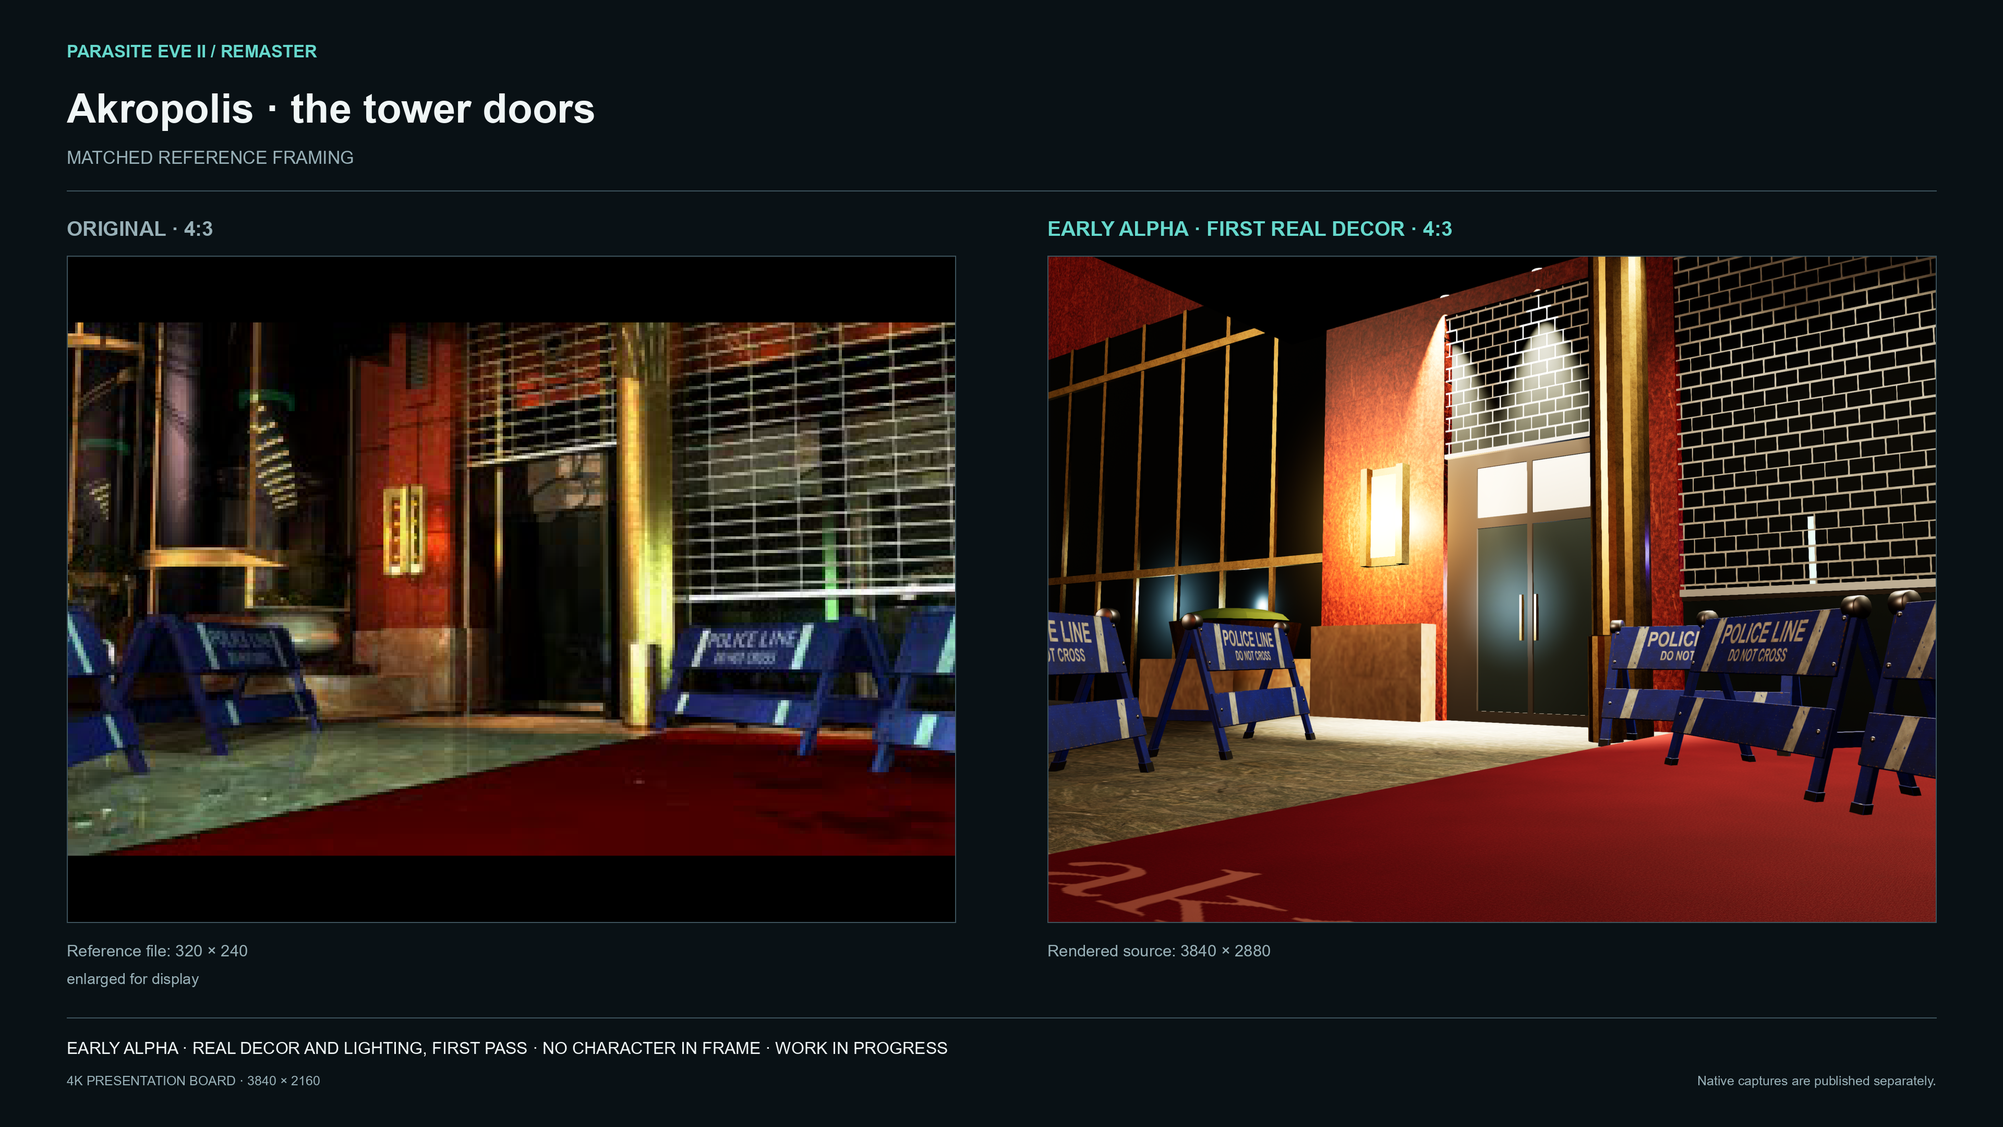
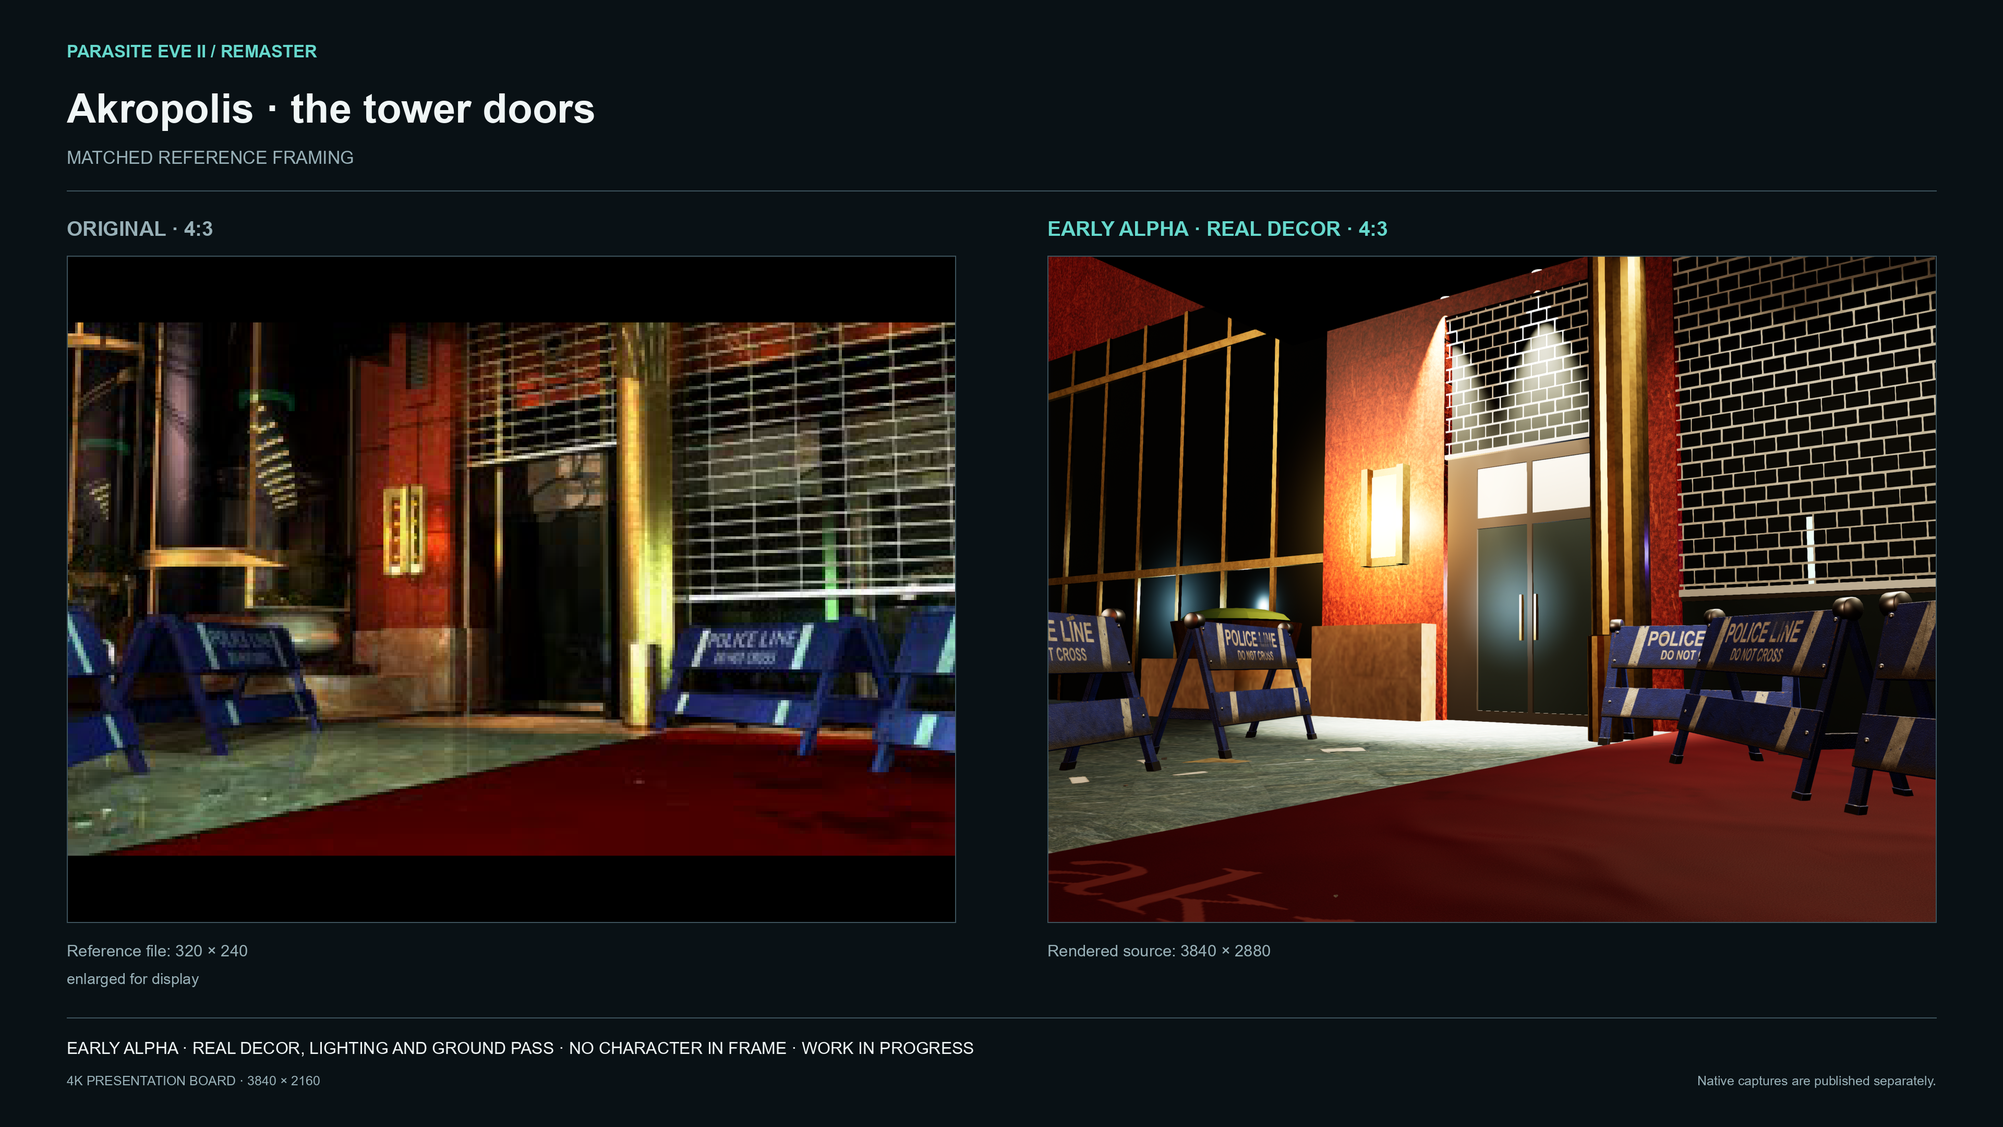
Akropolis plaza: the ground pass - photographed asphalt with tar-sealed cracks and repairs, the soaked ground round the fire engine's hoses, boot prints, a new comparison of the drive's markings, captures and progress note updated

Changed region(s): [[0.5, 0.2171, 0.9688, 0.8375], [0.2188, 0.8995, 0.4688, 0.9306], [0.5938, 0.1861, 0.7188, 0.2171]]

diff --git a/README.fr.md b/README.fr.md
@@ -60,19 +60,24 @@ Le premier lieu jouable d’Akropolis est le parvis au pied de la tour : la nuit
 - **Modélisé pour le projet.** Le camion de pompiers, l’ambulance aux portes arrière ouvertes, les barrières POLICE LINE, le brancard, les cônes et les fusées de détresse. Les surfaces et les plantes viennent de matières photographiées.
 - **Éclairé comme l’original.** Chaque lumière est dans un luminaire que montre l’original : les lampadaires, les gyrophares du camion, l’ambulance, les spots de l’auvent, les projecteurs du massif. Le niveau et la couleur de la lumière sont mesurés face à l’original, zone par zone, plutôt que réglés à l’œil.
 
-Alpha précoce : les personnages, les tuyaux au sol et les gyrophares animés restent à venir.
+- **Le sol, de près.** Le bitume est maintenant une vraie chaussée photographiée, usée, jamais identique d’un endroit à l’autre. Il porte ce que porte une vraie allée de ville : des fissures colmatées au goudron, des réparations découpées à la scie autour des plaques d’égout, une peinture usée, des gouttes d’huile au milieu des voies. Autour des tuyaux du camion, le sol est trempé, l’eau stagne dans ses vrais creux et les bottes mouillées des pompiers laissent leurs empreintes jusqu’aux portes. Le tapis rouge fait des plis, et sa couleur comme celle du marbre sont maintenant mesurées face à l’original.
 
-[![Allée du parvis d’Akropolis — original (gauche) et premier décor réel (droite)](media/comparisons/akropolis-plaza-drive-4x3.png)](media/alpha/akropolis-plaza-drive-4x3.png)
-*L’allée et le massif rond · premier décor réel · [capture native 3840 × 2880](media/alpha/akropolis-plaza-drive-4x3.png)*
+Alpha précoce : les personnages et les gyrophares animés restent à venir.
 
-[![Camion de pompiers d’Akropolis — original (gauche) et premier décor réel (droite)](media/comparisons/akropolis-plaza-fire-engine-4x3.png)](media/alpha/akropolis-plaza-fire-engine-4x3.png)
-*Le camion de pompiers devant la tour · premier décor réel · [capture native 3840 × 2880](media/alpha/akropolis-plaza-fire-engine-4x3.png)*
+[![Allée du parvis d’Akropolis — original (gauche) et décor réel (droite)](media/comparisons/akropolis-plaza-drive-4x3.png)](media/alpha/akropolis-plaza-drive-4x3.png)
+*L’allée et le massif rond · décor réel · [capture native 3840 × 2880](media/alpha/akropolis-plaza-drive-4x3.png)*
 
-[![Parvis d’Akropolis — original (gauche) et premier décor réel (droite)](media/comparisons/akropolis-plaza-forecourt-4x3.png)](media/alpha/akropolis-plaza-forecourt-4x3.png)
-*Le parvis et le tapis rouge · premier décor réel · [capture native 3840 × 2880](media/alpha/akropolis-plaza-forecourt-4x3.png)*
+[![Marquages de l’allée d’Akropolis — original (gauche) et décor réel avec la passe du sol (droite)](media/comparisons/akropolis-plaza-markings-4x3.png)](media/alpha/akropolis-plaza-markings-4x3.png)
+*Les marquages de l’allée et les barrières · la passe du sol · [capture native 3840 × 2880](media/alpha/akropolis-plaza-markings-4x3.png)*
 
-[![Portes de la tour d’Akropolis — original (gauche) et premier décor réel (droite)](media/comparisons/akropolis-plaza-doors-4x3.png)](media/alpha/akropolis-plaza-doors-4x3.png)
-*Les portes de la tour · premier décor réel · [capture native 3840 × 2880](media/alpha/akropolis-plaza-doors-4x3.png)*
+[![Camion de pompiers d’Akropolis — original (gauche) et décor réel (droite)](media/comparisons/akropolis-plaza-fire-engine-4x3.png)](media/alpha/akropolis-plaza-fire-engine-4x3.png)
+*Le camion de pompiers devant la tour, le sol trempé autour des tuyaux · décor réel · [capture native 3840 × 2880](media/alpha/akropolis-plaza-fire-engine-4x3.png)*
+
+[![Parvis d’Akropolis — original (gauche) et décor réel (droite)](media/comparisons/akropolis-plaza-forecourt-4x3.png)](media/alpha/akropolis-plaza-forecourt-4x3.png)
+*Le parvis et le tapis rouge · décor réel · [capture native 3840 × 2880](media/alpha/akropolis-plaza-forecourt-4x3.png)*
+
+[![Portes de la tour d’Akropolis — original (gauche) et décor réel (droite)](media/comparisons/akropolis-plaza-doors-4x3.png)](media/alpha/akropolis-plaza-doors-4x3.png)
+*Les portes de la tour · décor réel · [capture native 3840 × 2880](media/alpha/akropolis-plaza-doors-4x3.png)*
 
 [Détails](docs/PROGRESS.fr.md#akropolis-parvis-de-la-tour--point-du-9-novembre-2026)
 

diff --git a/README.md b/README.md
@@ -60,19 +60,24 @@ The first playable place of Akropolis is the plaza at the foot of the tower: the
 - **Modelled for the project.** The fire engine, the ambulance with its open rear doors, the POLICE LINE barricades, the gurney, the cones and the road flares. Surfaces and plants come from photographed materials.
 - **Lit like the original.** Every light sits in a fixture the original shows: the street lamps, the fire engine's beacons, the ambulance, the canopy lights, the planter's lights. The light level and colour are measured against the original, zone by zone, rather than set by eye.
 
-Early alpha: the characters, the hoses on the ground and the flashing beacons are still to come.
+- **The ground, up close.** The asphalt is now photographed road surface, worn and never the same from one spot to the next. It carries what a city drive really has: cracks sealed with tar, saw-cut repairs round the manholes, worn paint, oil drips down the lanes. Round the fire engine's hoses the ground is soaked, with water standing in its real dips and the firefighters' wet boot prints leading to the doors. The red carpet is rumpled, and its colour and the marble's are now measured against the original.
 
-[![Akropolis plaza drive — original (left) and first real decor (right)](media/comparisons/akropolis-plaza-drive-4x3.png)](media/alpha/akropolis-plaza-drive-4x3.png)
-*The drive and the round planter · first real decor · [native capture 3840 × 2880](media/alpha/akropolis-plaza-drive-4x3.png)*
+Early alpha: the characters and the flashing beacons are still to come.
 
-[![Akropolis fire engine — original (left) and first real decor (right)](media/comparisons/akropolis-plaza-fire-engine-4x3.png)](media/alpha/akropolis-plaza-fire-engine-4x3.png)
-*The fire engine at the tower · first real decor · [native capture 3840 × 2880](media/alpha/akropolis-plaza-fire-engine-4x3.png)*
+[![Akropolis plaza drive — original (left) and real decor (right)](media/comparisons/akropolis-plaza-drive-4x3.png)](media/alpha/akropolis-plaza-drive-4x3.png)
+*The drive and the round planter · real decor · [native capture 3840 × 2880](media/alpha/akropolis-plaza-drive-4x3.png)*
 
-[![Akropolis forecourt — original (left) and first real decor (right)](media/comparisons/akropolis-plaza-forecourt-4x3.png)](media/alpha/akropolis-plaza-forecourt-4x3.png)
-*The forecourt and the red carpet · first real decor · [native capture 3840 × 2880](media/alpha/akropolis-plaza-forecourt-4x3.png)*
+[![Akropolis drive markings — original (left) and real decor with the ground pass (right)](media/comparisons/akropolis-plaza-markings-4x3.png)](media/alpha/akropolis-plaza-markings-4x3.png)
+*The drive's markings and the barricades · the ground pass · [native capture 3840 × 2880](media/alpha/akropolis-plaza-markings-4x3.png)*
 
-[![Akropolis tower doors — original (left) and first real decor (right)](media/comparisons/akropolis-plaza-doors-4x3.png)](media/alpha/akropolis-plaza-doors-4x3.png)
-*The tower doors · first real decor · [native capture 3840 × 2880](media/alpha/akropolis-plaza-doors-4x3.png)*
+[![Akropolis fire engine — original (left) and real decor (right)](media/comparisons/akropolis-plaza-fire-engine-4x3.png)](media/alpha/akropolis-plaza-fire-engine-4x3.png)
+*The fire engine at the tower, the soaked ground round its hoses · real decor · [native capture 3840 × 2880](media/alpha/akropolis-plaza-fire-engine-4x3.png)*
+
+[![Akropolis forecourt — original (left) and real decor (right)](media/comparisons/akropolis-plaza-forecourt-4x3.png)](media/alpha/akropolis-plaza-forecourt-4x3.png)
+*The forecourt and the red carpet · real decor · [native capture 3840 × 2880](media/alpha/akropolis-plaza-forecourt-4x3.png)*
+
+[![Akropolis tower doors — original (left) and real decor (right)](media/comparisons/akropolis-plaza-doors-4x3.png)](media/alpha/akropolis-plaza-doors-4x3.png)
+*The tower doors · real decor · [native capture 3840 × 2880](media/alpha/akropolis-plaza-doors-4x3.png)*
 
 [Details](docs/PROGRESS.md#akropolis-tower-plaza--update-of-9-november-2026)
 

diff --git a/docs/GALLERY.fr.md b/docs/GALLERY.fr.md
@@ -73,25 +73,31 @@ Planche 3840 × 2160 · [capture native 3840 × 2880](../media/alpha/mist-hall-n
 
 [![Comparaison : Akropolis · l’allée du parvis et le massif rond](../media/comparisons/akropolis-plaza-drive-4x3.png)](../media/alpha/akropolis-plaza-drive-4x3.png)
 
-Planche 3840 × 2160 · [capture native 3840 × 2880](../media/alpha/akropolis-plaza-drive-4x3.png) · premier décor réel et première passe de lumière, aucun personnage.
+Planche 3840 × 2160 · [capture native 3840 × 2880](../media/alpha/akropolis-plaza-drive-4x3.png) · décor réel, lumière et passe du sol, aucun personnage.
+
+### Akropolis · les marquages de l’allée et les barrières
+
+[![Comparaison : Akropolis · les marquages de l’allée et les barrières](../media/comparisons/akropolis-plaza-markings-4x3.png)](../media/alpha/akropolis-plaza-markings-4x3.png)
+
+Planche 3840 × 2160 · [capture native 3840 × 2880](../media/alpha/akropolis-plaza-markings-4x3.png) · décor réel, lumière et passe du sol, aucun personnage.
 
 ### Akropolis · le camion de pompiers devant la tour
 
 [![Comparaison : Akropolis · le camion de pompiers devant la tour](../media/comparisons/akropolis-plaza-fire-engine-4x3.png)](../media/alpha/akropolis-plaza-fire-engine-4x3.png)
 
-Planche 3840 × 2160 · [capture native 3840 × 2880](../media/alpha/akropolis-plaza-fire-engine-4x3.png) · premier décor réel et première passe de lumière, aucun personnage.
+Planche 3840 × 2160 · [capture native 3840 × 2880](../media/alpha/akropolis-plaza-fire-engine-4x3.png) · décor réel, lumière et passe du sol, aucun personnage.
 
 ### Akropolis · le parvis et le tapis rouge
 
 [![Comparaison : Akropolis · le parvis et le tapis rouge](../media/comparisons/akropolis-plaza-forecourt-4x3.png)](../media/alpha/akropolis-plaza-forecourt-4x3.png)
 
-Planche 3840 × 2160 · [capture native 3840 × 2880](../media/alpha/akropolis-plaza-forecourt-4x3.png) · premier décor réel et première passe de lumière, aucun personnage.
+Planche 3840 × 2160 · [capture native 3840 × 2880](../media/alpha/akropolis-plaza-forecourt-4x3.png) · décor réel, lumière et passe du sol, aucun personnage.
 
 ### Akropolis · les portes de la tour
 
 [![Comparaison : Akropolis · les portes de la tour](../media/comparisons/akropolis-plaza-doors-4x3.png)](../media/alpha/akropolis-plaza-doors-4x3.png)
 
-Planche 3840 × 2160 · [capture native 3840 × 2880](../media/alpha/akropolis-plaza-doors-4x3.png) · premier décor réel et première passe de lumière, aucun personnage.
+Planche 3840 × 2160 · [capture native 3840 × 2880](../media/alpha/akropolis-plaza-doors-4x3.png) · décor réel, lumière et passe du sol, aucun personnage.
 
 ### Akropolis · colonnade du belvédère
 

diff --git a/docs/GALLERY.md b/docs/GALLERY.md
@@ -73,25 +73,31 @@ Board 3840 × 2160 · [native capture 3840 × 2880](../media/alpha/mist-hall-nov
 
 [![Akropolis · the plaza drive and the round planter comparison](../media/comparisons/akropolis-plaza-drive-4x3.png)](../media/alpha/akropolis-plaza-drive-4x3.png)
 
-Board 3840 × 2160 · [native capture 3840 × 2880](../media/alpha/akropolis-plaza-drive-4x3.png) · first real decor and lighting pass, no character in frame.
+Board 3840 × 2160 · [native capture 3840 × 2880](../media/alpha/akropolis-plaza-drive-4x3.png) · real decor, lighting and ground pass, no character in frame.
+
+### Akropolis · the drive’s markings and the barricades
+
+[![Akropolis · the drive’s markings and the barricades comparison](../media/comparisons/akropolis-plaza-markings-4x3.png)](../media/alpha/akropolis-plaza-markings-4x3.png)
+
+Board 3840 × 2160 · [native capture 3840 × 2880](../media/alpha/akropolis-plaza-markings-4x3.png) · real decor, lighting and ground pass, no character in frame.
 
 ### Akropolis · the fire engine at the tower
 
 [![Akropolis · the fire engine at the tower comparison](../media/comparisons/akropolis-plaza-fire-engine-4x3.png)](../media/alpha/akropolis-plaza-fire-engine-4x3.png)
 
-Board 3840 × 2160 · [native capture 3840 × 2880](../media/alpha/akropolis-plaza-fire-engine-4x3.png) · first real decor and lighting pass, no character in frame.
+Board 3840 × 2160 · [native capture 3840 × 2880](../media/alpha/akropolis-plaza-fire-engine-4x3.png) · real decor, lighting and ground pass, no character in frame.
 
 ### Akropolis · the forecourt and the red carpet
 
 [![Akropolis · the forecourt and the red carpet comparison](../media/comparisons/akropolis-plaza-forecourt-4x3.png)](../media/alpha/akropolis-plaza-forecourt-4x3.png)
 
-Board 3840 × 2160 · [native capture 3840 × 2880](../media/alpha/akropolis-plaza-forecourt-4x3.png) · first real decor and lighting pass, no character in frame.
+Board 3840 × 2160 · [native capture 3840 × 2880](../media/alpha/akropolis-plaza-forecourt-4x3.png) · real decor, lighting and ground pass, no character in frame.
 
 ### Akropolis · the tower doors
 
 [![Akropolis · the tower doors comparison](../media/comparisons/akropolis-plaza-doors-4x3.png)](../media/alpha/akropolis-plaza-doors-4x3.png)
 
-Board 3840 × 2160 · [native capture 3840 × 2880](../media/alpha/akropolis-plaza-doors-4x3.png) · first real decor and lighting pass, no character in frame.
+Board 3840 × 2160 · [native capture 3840 × 2880](../media/alpha/akropolis-plaza-doors-4x3.png) · real decor, lighting and ground pass, no character in frame.
 
 ### Akropolis · observatory colonnade
 

diff --git a/docs/PROGRESS.fr.md b/docs/PROGRESS.fr.md
@@ -37,7 +37,9 @@ Le parvis au pied de la tour d’Akropolis est le premier lieu d’Akropolis que
 
 **La lumière.** Dans l’original, les lumières de ce lieu n’éclairent que les personnages, posés sur une image pré-calculée. Ici, la scène est éclairée par les luminaires que montre l’original : les deux lampadaires, les gyrophares et projecteurs du camion, l’ambulance, les spots de l’auvent et les projecteurs du massif. Chaque zone du sol est comparée à l’original au même cadrage : le niveau d’ensemble lui correspond maintenant, chaque zone reste à moins d’un facteur deux, avec la même couleur chaude.
 
-**À venir.** Les personnages, les tuyaux au sol, les gyrophares animés et un calage plus précis du camion.
+**Le sol (soir du 9 novembre).** Le sol était la partie la moins convaincante de la scène : il a eu sa propre passe. Le bitume est maintenant fait de trois chaussées photographiées, mêlées sur toute l’allée pour que deux endroits ne se ressemblent jamais, à la même luminosité qu’avant (elle était déjà calée sur l’original). Il porte l’usure d’une allée de ville : des fissures colmatées au goudron coulé, usé là où passent les roues, du faïençage dans les traces de roues, des réparations carrées découpées à la scie autour des plaques d’égout, deux tranchées en travers de l’allée, des rebouchages à froid, des gouttes d’huile au milieu des voies, du sable le long des bordures, une peinture écaillée le long des fissures. Les tuyaux du camion traversent maintenant l’allée, et le sol autour d’eux est trempé, comme dans l’original : l’eau stagne dans les vrais creux du sol, et les bottes mouillées des pompiers laissent des empreintes jusqu’aux portes et jusqu’à l’ambulance, qui s’effacent en séchant. Le tapis rouge fait des plis et porte les traces de passage. Sa couleur et celle du marbre sont mesurées face à l’original au même cadrage : le tapis est d’un rouge plus profond, le marbre d’un vert-gris plus froid.
+
+**À venir.** Les personnages, les gyrophares animés et un calage plus précis du camion.
 
 ## Porte de la zone d’accès restreint du M.I.S.T. — point du 1er novembre 2026
 

diff --git a/docs/PROGRESS.md b/docs/PROGRESS.md
@@ -37,7 +37,9 @@ The plaza at the foot of the Akropolis tower is the first place of Akropolis you
 
 **Light.** In the original, the lights of this place only light the characters over a pre-rendered picture. Here the scene is lit by the fixtures the original shows: the two street lamps, the fire engine's beacons and work lights, the ambulance, the canopy's downlights and the planter's lights. Each zone of the ground is compared with the original at the same framing: the overall level now matches it, and every zone is within a factor of two, with the same warm colour.
 
-**Still to come.** The characters, the hoses on the ground, flashing beacons, and a closer fit of the fire engine.
+**The ground (evening of 9 November).** The ground was the least convincing part of the scene, so it got a pass of its own. The asphalt is now three photographed road surfaces blended over the whole drive, so no two spots look alike, at the same overall brightness as before (it was already matched to the original). It carries the wear of a city drive: cracks sealed with poured tar, worn thin where the wheels pass, fatigue cracking in the wheel paths, square saw-cut repairs round the manholes, two trenches across the drive, cold-mix patches, oil drips down the lanes, grit along the kerbs, paint chipped along the cracks. The fire engine's hoses now run across the drive, and the ground round them is soaked, as in the original: water stands in the real dips of the ground, and the firefighters' wet boot prints lead to the doors and to the ambulance, fading as they dry. The red carpet is rumpled and trodden. Its colour and the marble's are measured against the original at the same framing: the carpet is a deeper red, the marble a cooler green-grey.
+
+**Still to come.** The characters, flashing beacons, and a closer fit of the fire engine.
 
 ## M.I.S.T. restricted area door — update of 1 November 2026
 

diff --git a/docs/ASSET_CREDITS.md b/docs/ASSET_CREDITS.md
@@ -53,7 +53,9 @@ Models from [Poly Haven](https://polyhaven.com), released under [CC0 1.0](https:
 | Metal Manhole Cover | Quixel Megascans | [Fab listing](https://www.fab.com/listings/f3fc6c71-33c6-4044-9575-c5b0b0863b9b) | Fab Standard Licence (free offer) |
 | Boxwood | Quixel Megascans | [Fab listing](https://www.fab.com/listings/ae90090d-cafb-4431-a74f-8cded15f93e1) | Fab Standard Licence (free offer) |
 | Traffic Cone | Quixel Megascans | [Fab listing](https://www.fab.com/listings/b9c52f4d-0eb4-48c3-9ed0-1e77b9f05c52) | Fab Standard Licence (free offer) |
-| asphalt_01 | Poly Haven | [polyhaven.com](https://polyhaven.com/a/asphalt_01) | CC0 1.0 |
+| Cracked Asphalt (the drive's main asphalt) | Quixel Megascans | [Fab listing](https://www.fab.com/listings/cad1cf28-8109-4018-8d94-f041d00d44c7) | Fab Standard Licence (free offer) |
+| Rough Asphalt (blended in, so the drive never repeats) | Quixel Megascans | [Fab listing](https://www.fab.com/listings/6a8487fa-3039-4e31-8415-ab27c0f69279) | Fab Standard Licence (free offer) |
+| Asphalt Fresh (the repairs) | Quixel Megascans | [Fab listing](https://www.fab.com/listings/d656c99c-e792-4880-b832-7835dd450395) | Fab Standard Licence (free offer) |
 | Fabric030 (the carpet's weave), Metal029 (the brass) | ambientCG | [ambientcg.com](https://ambientcg.com) | CC0 1.0 |
 
 The fire engine, the ambulance, the barricades, the gurney, the road flares and the plaza's architecture are modelled for this project.
